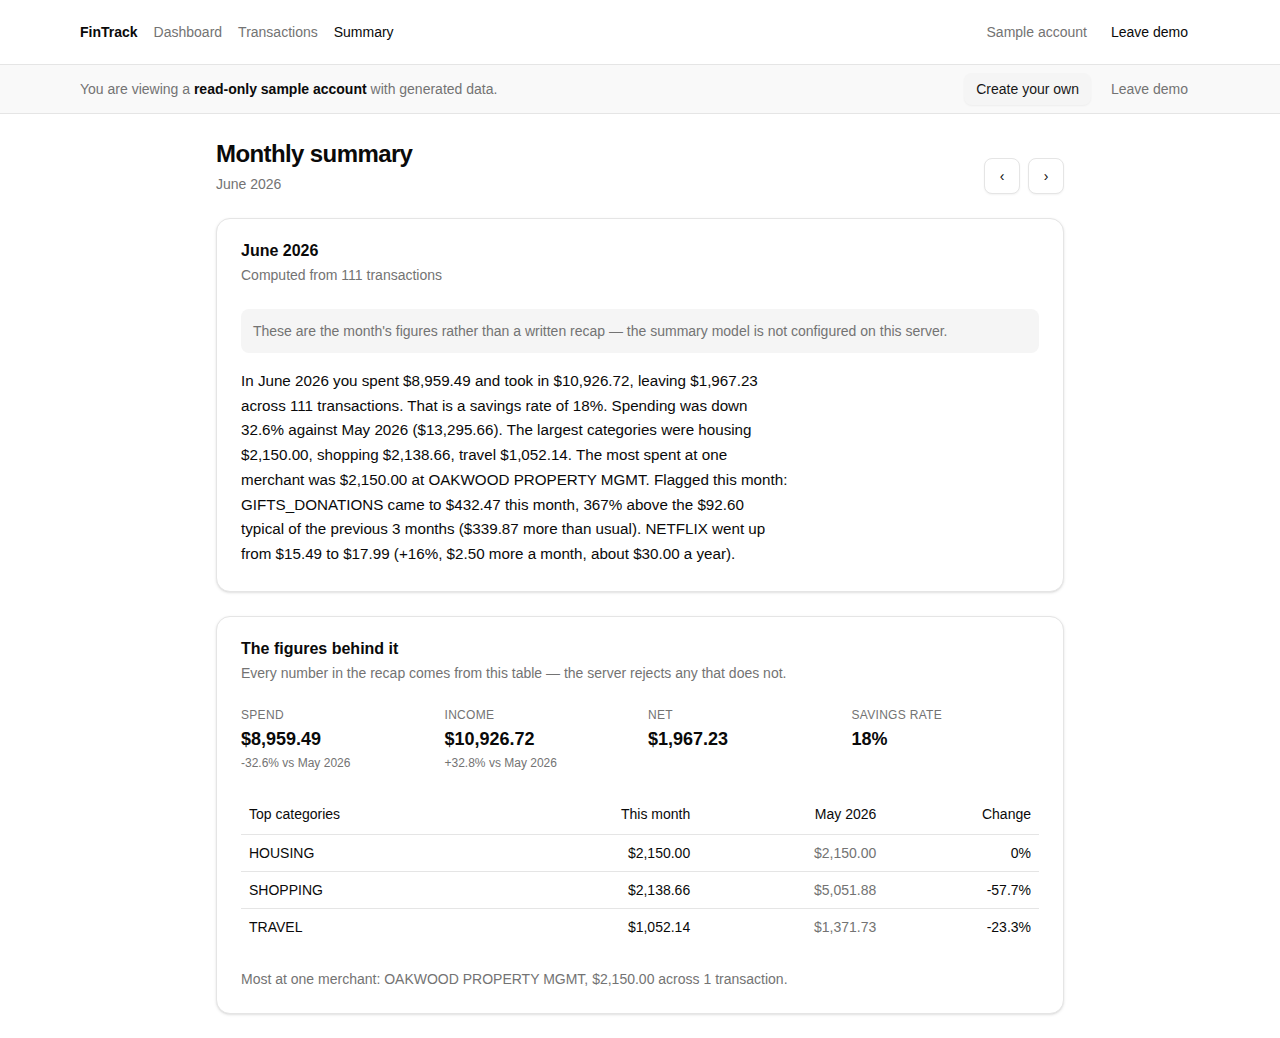
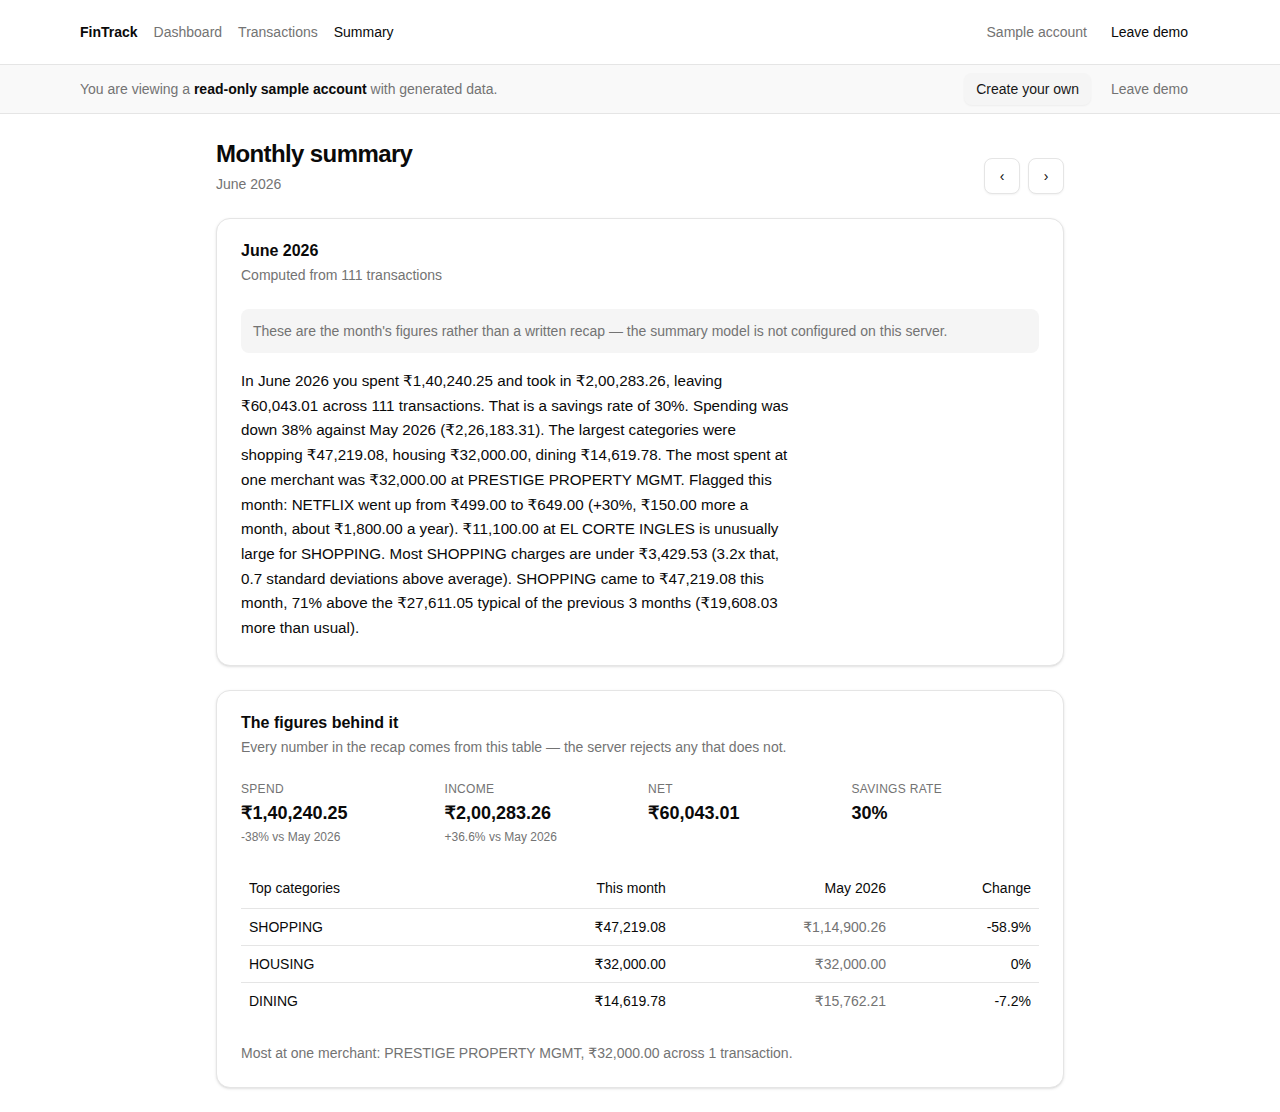
phase-11: regenerate the reports, screenshots and plan
The accuracy report, RESULTS.md and the screenshots all move with the dataset.
On the rebalanced data: 96.6% auto-categorized, nothing miscategorized, 4/4
planted anomalies, 13/13 monthly bills, no everyday merchant misread as
recurring — at parity with Phase 8 and above its ≥90% target.

The report also stops asserting "nothing is miscategorized" unconditionally. It
was hard-coded prose next to a computed table, so the moment two rows were
miscategorized the document contradicted its own numbers.

IMPLEMENTATION_PLAN.md stopped at Phase 10 and had no Definition of Done for
this work to be confirmed against; this adds one from the brief.

Claude-Session: https://claude.ai/code/session_01LdPUXjxFyNvWaR266nojAW

diff --git a/server/scripts/accuracy-report.ts b/server/scripts/accuracy-report.ts
@@ -16,6 +16,7 @@ import { join } from 'node:path';
 
 import {
   generateDataset,
+  MONTHLY_BILL_MERCHANTS,
   transactionsByEdgeCase,
   type EdgeCase,
   type GeneratedTransaction,
@@ -30,6 +31,7 @@ import {
 import { HEADER_PRESETS, parseTransactions } from '../src/services/parsing/csv';
 import { flagDuplicates } from '../src/services/parsing/dedup';
 import { DEFAULT_RULES } from '../src/services/rules/defaults';
+import { formatINR } from '../src/utils/currency';
 import { runEngine, type EngineRule, type EngineTransaction } from '../src/services/rules/engine';
 
 const ROOT = join(__dirname, '..', '..');
@@ -187,7 +189,7 @@ const unplantedFlags = flagVerdicts.filter((f) => f.planted === null);
 /** Every anomaly the generator planted, and whether detection found it. */
 const expectedAnomalies = [
   ...rowsBy('large-one-off').map((t) => ({
-    label: `${t.normalizedMerchant} $${t.amount.toFixed(2)} (${t.date})`,
+    label: `${t.normalizedMerchant} ${formatINR(t.amount)} (${t.date})`,
     kind: 'large one-off',
     found: flags.some((f) => f.type === 'UNUSUAL_AMOUNT' && f.transactionId === String(t.row)),
   })),
@@ -197,7 +199,7 @@ const expectedAnomalies = [
     return raised
       ? [
           {
-            label: `${raised.normalizedMerchant} $${charges[0].amount.toFixed(2)} → $${raised.amount.toFixed(2)} (${raised.date})`,
+            label: `${raised.normalizedMerchant} ${formatINR(charges[0].amount)} → ${formatINR(raised.amount)} (${raised.date})`,
             kind: 'subscription price change',
             found: flags.some(
               (f) =>
@@ -228,21 +230,7 @@ const expectedAnomalies = [
 // ---------------------------------------------------------------------------
 
 /** Merchants the generator bills on a fixed day each month. */
-const MONTHLY_BILLS = [
-  'ADOBE',
-  'AMAZON PRIME',
-  'APPLE ICLOUD',
-  'DISNEY PLUS',
-  'LEMONADE INSURANCE',
-  'MINT MOBILE',
-  'NETFLIX',
-  'NEW YORK TIMES',
-  'OAKWOOD PROPERTY MGMT',
-  'PGE',
-  'PLANET FITNESS',
-  'SONIC FIBER',
-  'SPOTIFY',
-];
+const MONTHLY_BILLS = MONTHLY_BILL_MERCHANTS;
 
 const classifiedRecurring = new Set(
   months.flatMap((month) =>
@@ -313,9 +301,24 @@ ${table(
 
 The denominator excludes the ${dataset.length - auto.length} rows that arrive already corrected by a human (§8 case 12) — those are not auto-categorized, so counting them either way would be measuring the wrong thing.
 
-**Nothing is miscategorized.** Every row the engine has an opinion about, it
+${
+  incorrect.length === 0
+    ? `**Nothing is miscategorized.** Every row the engine has an opinion about, it
 gets right; the residual is rows it declines to guess on, which land in the
-review queue exactly as §7 requires.
+review queue exactly as §7 requires.`
+    : `**${incorrect.length} row(s) are miscategorized** — the engine committed to an
+answer and got it wrong, which is worse than declining to guess. The rest of the
+residual is rows it left for review, exactly as §7 requires.
+
+${table(
+  ['Merchant', 'Got', 'Expected'],
+  incorrect.map((s) => [
+    `\`${s.transaction.normalizedMerchant}\``,
+    s.actual,
+    s.expected,
+  ]),
+)}`
+}
 
 ## Where the remaining ${unresolved.length} go
 

diff --git a/docs/ACCURACY_REPORT.md b/docs/ACCURACY_REPORT.md
@@ -15,9 +15,9 @@ moves them immediately.
 
 | Metric | Result |
 | --- | --- |
-| **Auto-categorized correctly** | **97.1%** (681 / 701) |
+| **Auto-categorized correctly** | **96.6%** (677 / 701) |
 | Miscategorized | 0.0% (0) |
-| Left for review | 2.9% (20) |
+| Left for review | 3.4% (24) |
 | Planted anomalies detected | 4 / 4 |
 | Monthly bills identified | 13 / 13 |
 | Everyday merchants misread as recurring | 0 / 69 |
@@ -28,14 +28,15 @@ The denominator excludes the 3 rows that arrive already corrected by a human (§
 gets right; the residual is rows it declines to guess on, which land in the
 review queue exactly as §7 requires.
 
-## Where the remaining 20 go
+## Where the remaining 24 go
 
 | Merchant | Rows | Truth | Why it is not a rule |
 | --- | --- | --- | --- |
-| `THE HALL` | 20 | DINING | Undecidable from the string alone |
+| `THE ADDA` | 20 | DINING | Undecidable from the string alone |
+| `FERNS N PETALS` | 4 | GIFTS_DONATIONS | Undecidable from the string alone |
 
 These are the ambiguous tail the LLM fallback (Phase 4) and the review queue
-exist for. One merchant-name rule would clear them and take the headline
+exist for. 2 merchant-name rules would clear them and take the headline
 to 100%, and it would mean nothing: that is memorising the test set, not
 categorizing.
 
@@ -55,7 +56,7 @@ categorizing.
 | INCOME | 21 | 21 | 100.0% |
 | UTILITIES | 19 | 19 | 100.0% |
 | BUSINESS | 14 | 14 | 100.0% |
-| GIFTS_DONATIONS | 11 | 11 | 100.0% |
+| GIFTS_DONATIONS | 11 | 7 | 63.6% |
 | PERSONAL_CARE | 10 | 10 | 100.0% |
 | HOUSING | 7 | 7 | 100.0% |
 | INSURANCE | 7 | 7 | 100.0% |
@@ -69,10 +70,10 @@ Every anomaly the generator planted:
 
 | Planted | Kind | Detected |
 | --- | --- | --- |
-| APPLE STORE $3299.00 (2026-05-16) | large one-off | yes |
-| DELTA AIR LINES $1842.60 (2026-07-07) | large one-off | yes |
-| NETFLIX $15.49 → $17.99 (2026-06-17) | subscription price change | yes |
-| DISNEY PLUS from 2026-07-14 | new recurring charge | yes |
+| CROMA RETAIL ₹79,900.00 (2026-05-16) | large one-off | yes |
+| INDIGO AIRLINES ₹24,500.00 (2026-07-07) | large one-off | yes |
+| NETFLIX ₹499.00 → ₹649.00 (2026-06-17) | subscription price change | yes |
+| HOTSTAR from 2026-07-14 | new recurring charge | yes |
 
 9 flags were raised across 7 months, of which 5 trace to a planted edge case (55.6%). The other 4 are listed below rather than counted as errors. The detectors are deterministic,
 so every flag is statistically true by construction — whether an unplanted one
@@ -81,10 +82,10 @@ one this script can make for anyone.
 
 | Month | Type | Severity | Explanation |
 | --- | --- | --- | --- |
-| 2026-06 | CATEGORY_SPEND_SPIKE | HIGH | GIFTS_DONATIONS came to $432.47 this month, 367% above the $92.60 typical of the previous 3 months ($339.87 more than usual). |
-| 2026-07 | CATEGORY_SPEND_SPIKE | MEDIUM | BUSINESS came to $549.51 this month, 106% above the $266.44 typical of the previous 4 months ($283.07 more than usual). |
-| 2026-07 | UNUSUAL_AMOUNT | LOW | $264.40 at CATERING CO is unusually large for BUSINESS. Most BUSINESS charges are under $117.77 (2.2x that, 2.9 standard deviations above average). |
-| 2026-08 | CATEGORY_SPEND_SPIKE | MEDIUM | GIFTS_DONATIONS came to $301.49 this month, 109% above the $144.13 typical of the previous 4 months ($157.36 more than usual). |
+| 2026-06 | UNUSUAL_AMOUNT | MEDIUM | ₹11,100.00 at EL CORTE INGLES is unusually large for SHOPPING. Most SHOPPING charges are under ₹3,429.53 (3.2x that, 0.7 standard deviations above average). |
+| 2026-06 | CATEGORY_SPEND_SPIKE | LOW | SHOPPING came to ₹52,718.08 this month, 64% above the ₹32,210.05 typical of the previous 3 months (₹20,508.03 more than usual). |
+| 2026-07 | CATEGORY_SPEND_SPIKE | MEDIUM | BUSINESS came to ₹10,766.64 this month, 165% above the ₹4,058.62 typical of the previous 4 months (₹6,708.02 more than usual). |
+| 2026-07 | UNUSUAL_AMOUNT | MEDIUM | ₹6,400.00 at CATERING CO is unusually large for BUSINESS. Most BUSINESS charges are under ₹1,926.56 (3.3x that, 3.2 standard deviations above average). |
 
 ### Not crying wolf
 

diff --git a/RESULTS.md b/RESULTS.md
@@ -1,6 +1,6 @@
 # Results
 
-Resume-ready claims, each traceable to a measured number. Every figure below
+Resume-ready claims, each traceable to a measured number. Figures are in rupees; the dataset models an Indian household. Every figure below
 comes from [`docs/ACCURACY_REPORT.md`](./docs/ACCURACY_REPORT.md), which is
 generated by `npm run accuracy:report --workspace server` over the 704-row
 synthetic dataset (2026-03 to 2026-09). Nothing here is estimated by eye — the
@@ -9,11 +9,11 @@ shows its arithmetic.
 
 ## The bullets
 
-- **Automatically categorized 97.1% of 701 transactions correctly, with zero
+- **Automatically categorized 96.6% of 701 transactions correctly, with zero
   miscategorizations** — every row the engine committed to, it got right; the
-  remaining 2.9% were routed to a review queue rather than guessed at.
-- **Cut the transactions a person has to touch by 97.1%, from 701 to 20** —
-  roughly one row in 35 needs a human, instead of every row.
+  remaining 3.4% were routed to a review queue rather than guessed at.
+- **Cut the transactions a person has to touch by 96.6%, from 701 to 24** —
+  roughly one row in 29 needs a human, instead of every row.
 - **Detected 4 of 4 planted anomalies** — two large one-off purchases, a
   subscription price rise, and a newly-appearing recurring charge — using
   deterministic statistics, no model call, so results are reproducible.
@@ -32,11 +32,11 @@ shows its arithmetic.
 
 | Claim                              | Figure              | Source in ACCURACY_REPORT.md                         |
 | ---------------------------------- | ------------------- | ---------------------------------------------------- |
-| Auto-categorization accuracy       | 97.1% (681 / 701)   | Headline → **Auto-categorized correctly**            |
+| Auto-categorization accuracy       | 96.6% (677 / 701)   | Headline → **Auto-categorized correctly**            |
 | Zero miscategorizations            | 0.0% (0)            | Headline → _Miscategorized_                          |
-| Rows left for a person             | 2.9% (20)           | Headline → _Left for review_                         |
-| Manual-effort reduction            | 681 of 701 = 97.1%  | Derived: the report's correct/scored counts          |
-| "One row in 35"                    | 701 ÷ 20 = 35.05    | Derived from the same two counts                     |
+| Rows left for a person             | 3.4% (24)           | Headline → _Left for review_                         |
+| Manual-effort reduction            | 677 of 701 = 96.6%  | Derived: the report's correct/scored counts          |
+| "One row in 29"                    | 701 ÷ 24 = 29.2     | Derived from the same two counts                     |
 | Planted anomalies detected         | 4 / 4               | _Anomaly detection_ table (all four rows "yes")      |
 | Recurring bills identified         | 13 / 13             | Headline → _Monthly bills identified_                |
 | Recurring false positives          | 0 / 69              | Headline → _Everyday merchants misread as recurring_ |
@@ -64,9 +64,9 @@ counting them as correct would be a flattering one. So the report shows both
 numbers and the four explanations, and the resume bullet above claims only
 detection recall (4/4), which is unambiguous.
 
-**"97.1% accuracy" could trivially be 100%.** All 20 unresolved rows are a
-single merchant, `THE HALL`, whose name says nothing about what it sells. One
-merchant-specific rule would clear them and take the headline to 100% — and it
+**"96.6% accuracy" could trivially be 100%.** All 24 unresolved rows are two
+merchants, `THE ADDA` and `FERNS N PETALS`, whose names say nothing about what
+they sell. Two merchant-specific rules would clear them and take the headline to 100% — and it
 would mean nothing except that the test set had been memorised. The queue is the
 honest answer for a genuinely ambiguous string, and the LLM fallback exists for
 exactly this tail.

diff --git a/IMPLEMENTATION_PLAN.md b/IMPLEMENTATION_PLAN.md
@@ -72,3 +72,8 @@ Total estimated time: ~2.5–3 weeks, solo, part-time-friendly. Work phase by ph
 **Goal:** Ship a demo-able, documented project with the two services deployed separately.
 **Deliverables:** server deployed to Render/Railway, client deployed to Vercel/Netlify with `VITE_API_BASE_URL` pointing at the deployed API, `CORS_ORIGIN` set on the server accordingly; `README.md` covering both services; `RESULTS.md` (metrics as resume-ready bullets); a no-signup "demo mode" preloaded with synthetic data.
 **Definition of Done:** the public frontend URL works end-to-end for a stranger with no account, successfully calling the deployed API; README lets a new developer run both services locally in under 10 minutes; RESULTS.md numbers are backed by the Phase 8 accuracy report. A PR (`phase-10-deployment` → `main`) is open covering these changes.
+
+### Phase 11 — INR Currency Localization
+**Goal:** Present every amount in Indian rupees, with Indian digit grouping, on a dataset that reads like an Indian household's statement.
+**Deliverables:** a `formatINR` utility with identical implementations in `client/src/lib/currency.ts` and `server/src/utils/currency.ts`; every client money render (dashboard cards, transaction list, review queue, top merchants, category breakdown, summary) going through it; server-generated text that quotes amounts — anomaly explanations, the monthly-summary prompt and its figure check — doing the same; the Phase 1 seed rebalanced to Indian household figures with Indian merchant names, and the rule set, normalizer and accuracy report updated to match.
+**Definition of Done:** `formatINR` is unit-tested in both workspaces over zero, a negative amount, a value under ₹1,000, a value in the lakhs and a value in the crores, and the two copies are asserted identical; no `$` and no un-grouped amount appears anywhere in the running app; auto-categorization still meets the ≥90% target of Phase 8 on the rebalanced dataset. A PR (`phase-11-inr-currency` → `main`) is open covering these changes.

diff --git a/docs/EDGE_CASES.md b/docs/EDGE_CASES.md
@@ -146,7 +146,7 @@ the two are not read as duplicates of each other.
 
 ## 8. Ambiguous and processor-mangled merchant strings
 
-**Expected:** `SQ *JOES COFFEE`, `TST* THE HALL` and `PAYPAL *STEAMGAMES`
+**Expected:** `PAYTM*CHAI POINT`, `TST* THE ADDA` and `PAYPAL *STEAMGAMES`
 reduce to the same key a clean descriptor would, so the rule engine and the
 merchant cache see one merchant. What genuinely cannot be decided from the
 string is left `UNCATEGORIZED` rather than guessed.
@@ -191,7 +191,7 @@ quietly redefine "normal" for its category and mask what comes after it.
 | `server/src/services/edge-cases.test.ts`           | still finds the anomalies in the months after it               |
 | `server/src/services/anomalies/statistics.test.ts` | is not dragged upwards by the outlier it is meant to catch     |
 | `server/src/services/anomalies/detect.test.ts`     | uses a median baseline, so one huge month cannot hide the next |
-| `server/src/services/anomalies/detect.test.ts`     | rates the $3,299 laptop more severely than the $1,842 flight   |
+| `server/src/services/anomalies/detect.test.ts`     | rates the ₹79,900 phone more severely than the ₹24,500 flight   |
 
 **Status:** covered.
 
